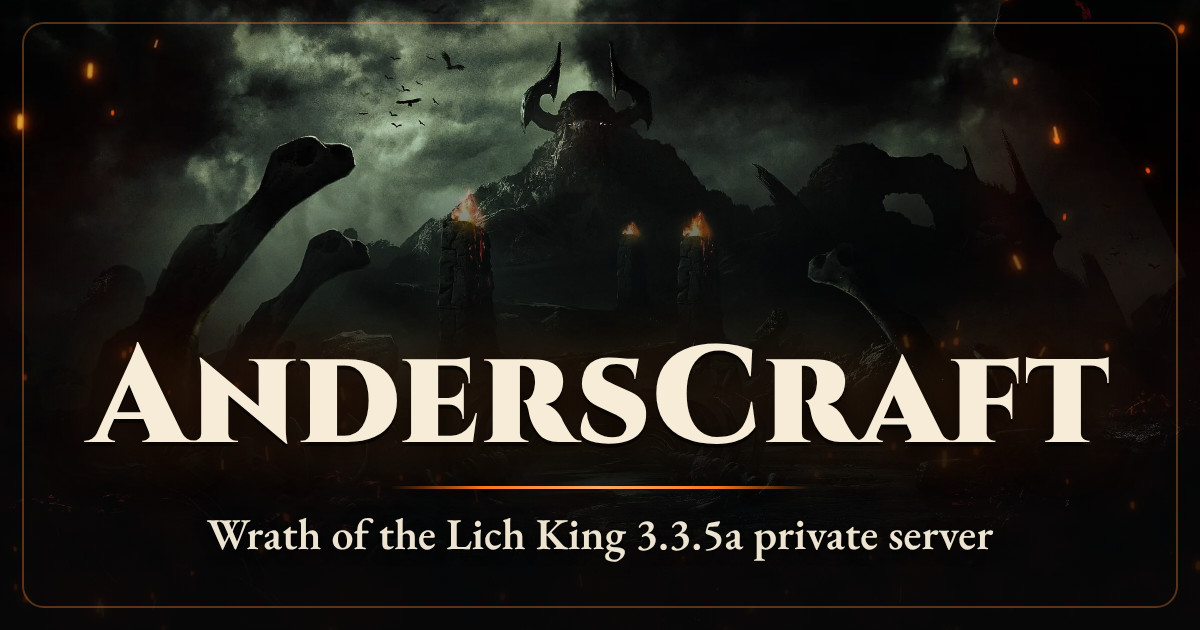
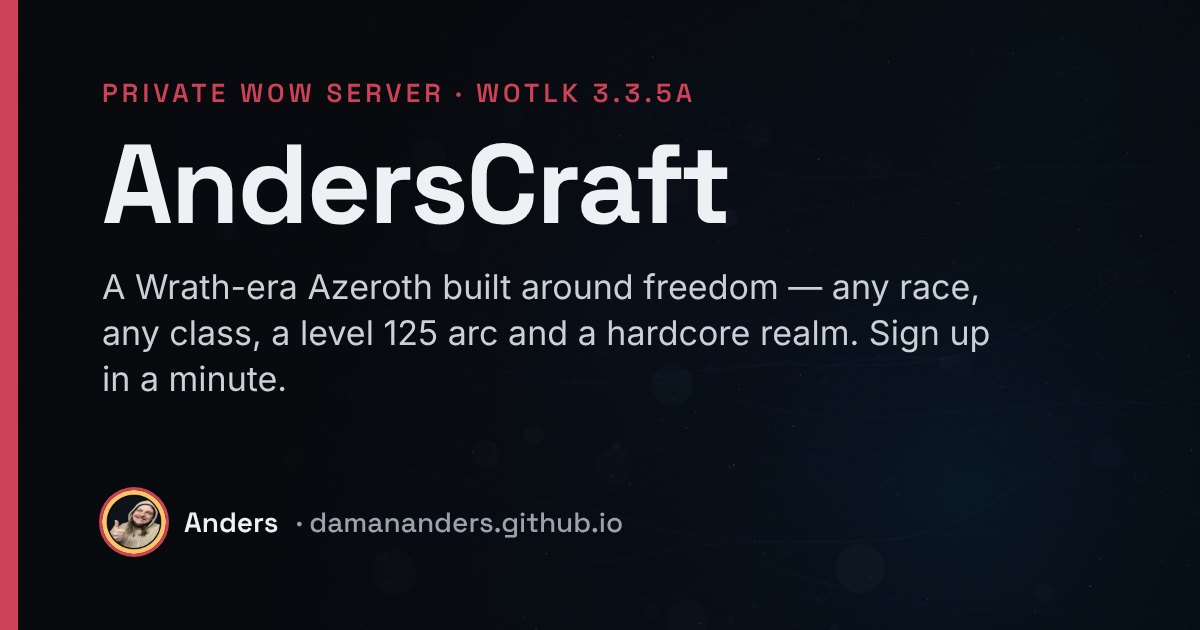
Add preview cards for the rest of the shareable pages
Give every public page its own current share card instead of falling
back to the hub image (or, for Discord, a file that did not exist):

- New make-og.js cards + images for AndersCraft, AnyPS, the Discord,
  the Arcade and the Trophy Cabinet, each with its own accent.
- discord/index referenced assets/og/discord.jpg, which was missing, so
  the Discord link showed no preview — now generated.
- anyps/index pointed at the old assets/og-anyps.jpg; it now uses the
  new assets/og/anyps.jpg.
- arcade/index and trophies/index pointed at hub.jpg; they now use their
  own cards.
- Cache-bust (?v=2) the pages whose image URL stayed the same so social
  scrapers re-fetch.

Claude-Session: https://claude.ai/code/session_016ickBQz9n7M8ARFbD6v1xn

diff --git a/tools/make-og.js b/tools/make-og.js
@@ -12,7 +12,12 @@ const CARDS = [
   { file: "stream", kicker: "Stream", title: "Live from the workbench", sub: "Coding, reverse engineering, servers and game dev, live.", accent: "#9146ff" },
   { file: "links", kicker: "Links I like", title: "Sites I actually use", sub: "Places on the internet worth your click, ranked by me and by you.", accent: "#cd4257" },
   { file: "games", kicker: "Rate-O-Pedia Forums", title: "Rate the classics", sub: "Search thousands of PlayStation games and rate them 0 to 5.", accent: "#36d39a" },
-  { file: "support", kicker: "Support", title: "Keep the lights on", sub: "Fan projects I build for fun and run at my own cost. Chip in, no pressure.", accent: "#cd4257" }
+  { file: "support", kicker: "Support", title: "Keep the lights on", sub: "Fan projects I build for fun and run at my own cost. Chip in, no pressure.", accent: "#cd4257" },
+  { file: "anderscraft", kicker: "Private WoW server · WotLK 3.3.5a", title: "AndersCraft", sub: "A Wrath-era Azeroth built around freedom — any race, any class, a level 125 arc and a hardcore realm. Sign up in a minute.", accent: "#cd4257" },
+  { file: "anyps", kicker: "PlayStation launcher · Windows", title: "AnyPS", sub: "One controller-first launcher for six generations of PlayStation emulators, now with PS Vita. Bring your own games.", accent: "#3d8bff" },
+  { file: "discord", kicker: "Friends of DaManAnders", title: "Come hang out", sub: "Go-live alerts, new-review feeds and a place to talk about the projects. The Discord for everything Anders.", accent: "#5865f2" },
+  { file: "arcade", kicker: "Arcade", title: "Play something", sub: "Little browser games tucked into the site — row the boat home, stamp review scores, and more to come.", accent: "#cd4257" },
+  { file: "trophies", kicker: "Trophy cabinet", title: "Collect them all", sub: "Hidden trophies across the whole site — secret words, cheat codes and milestones. See how many you can find.", accent: "#f0b065" }
 ];
 const b64 = f => fs.readFileSync(path.join(root, f)).toString("base64");
 const html = c => `<!doctype html><meta charset="utf-8"><style>

diff --git a/anderscraft/index.html b/anderscraft/index.html
@@ -9,7 +9,7 @@
 <meta property="og:title" content="AndersCraft — Create Your Account" />
 <meta property="og:description" content="A WotLK 3.3.5a server with Goblins, Worgen, any race any class, a hardcore realm and levels up to 125." />
 <meta property="og:url" content="https://damananders.github.io/anderscraft/" />
-<meta property="og:image" content="https://damananders.github.io/assets/og/anderscraft.jpg" />
+<meta property="og:image" content="https://damananders.github.io/assets/og/anderscraft.jpg?v=2" />
 <meta property="og:image:width" content="1200" />
 <meta property="og:image:height" content="630" />
 <meta name="twitter:card" content="summary_large_image" />

diff --git a/anyps/index.html b/anyps/index.html
@@ -9,7 +9,7 @@
 <meta property="og:title" content="AnyPS — One Launcher, Every Generation" />
 <meta property="og:description" content="A controller-first launcher for open-source PlayStation emulators. Bring your own games." />
 <meta property="og:url" content="https://damananders.github.io/anyps/" />
-<meta property="og:image" content="https://damananders.github.io/assets/og-anyps.jpg" />
+<meta property="og:image" content="https://damananders.github.io/assets/og/anyps.jpg?v=2" />
 <meta property="og:image:width" content="1200" />
 <meta property="og:image:height" content="630" />
 <meta name="twitter:card" content="summary_large_image" />

diff --git a/arcade/index.html b/arcade/index.html
@@ -9,7 +9,7 @@
 <meta property="og:title" content="Arcade" />
 <meta property="og:description" content="Row home, Review Score and Supreme Lobbing: three games on damananders.github.io." />
 <meta property="og:url" content="https://damananders.github.io/arcade/" />
-<meta property="og:image" content="https://damananders.github.io/assets/og/hub.jpg" />
+<meta property="og:image" content="https://damananders.github.io/assets/og/arcade.jpg" />
 <meta name="twitter:card" content="summary_large_image" />
 <link rel="icon" href="/favicon.ico?v=4" sizes="any" />
 <link rel="icon" type="image/png" sizes="64x64" href="/assets/icons/fav-hub.png?v=4" />

diff --git a/trophies/index.html b/trophies/index.html
@@ -9,7 +9,7 @@
 <meta property="og:title" content="Trophy Cabinet" />
 <meta property="og:description" content="Collect trophies by exploring damananders.github.io." />
 <meta property="og:url" content="https://damananders.github.io/trophies/" />
-<meta property="og:image" content="https://damananders.github.io/assets/og/hub.jpg" />
+<meta property="og:image" content="https://damananders.github.io/assets/og/trophies.jpg" />
 <meta name="twitter:card" content="summary_large_image" />
 <link rel="icon" href="/favicon.ico?v=4" sizes="any" />
 <link rel="icon" type="image/png" sizes="64x64" href="/assets/icons/fav-hub.png?v=4" />

diff --git a/discord/index.html b/discord/index.html
@@ -9,7 +9,7 @@
 <meta name="theme-color" content="#07090b" />
 <meta property="og:title" content="Discord — Friends of DaManAnders" />
 <meta property="og:description" content="Go-live pings, a Rate-O-Pedia review feed, project channels, roles and forums. Come hang out." />
-<meta property="og:image" content="https://damananders.github.io/assets/og/discord.jpg" />
+<meta property="og:image" content="https://damananders.github.io/assets/og/discord.jpg?v=2" />
 <meta property="og:image:width" content="1200" />
 <meta property="og:image:height" content="630" />
 <meta name="twitter:card" content="summary_large_image" />
